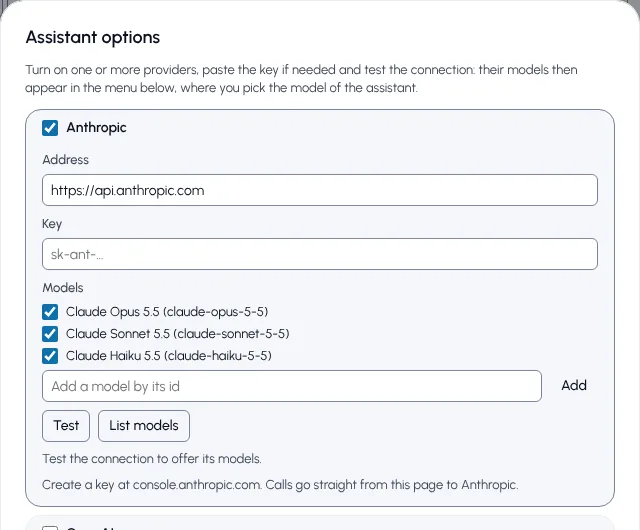
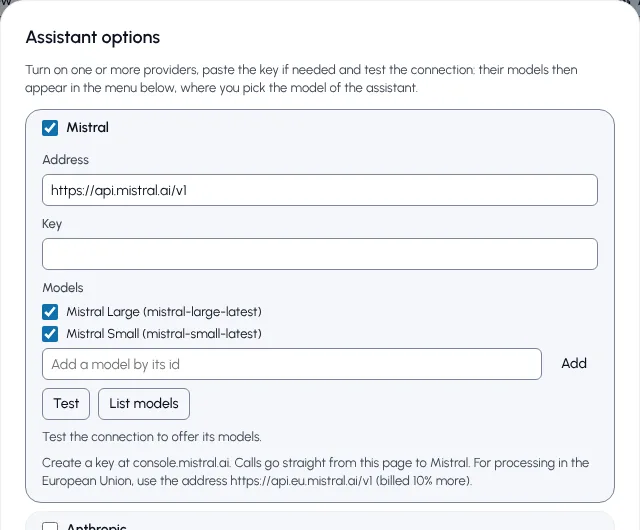
Show the Mistral block in the help screenshots

diff --git a/aide.html b/aide.html
@@ -285,7 +285,7 @@
           </table>
         </div>
         <p>Collez la clé, cliquez sur <span class="ui">Tester</span>, puis choisissez le modèle. Les modèles d'un fournisseur sont proposés une fois sa connexion testée. Le panneau affiche le modèle utilisé.</p>
-        <figure><img src="/src/help/img/fr-options.webp" width="640" height="530" alt="Fenêtre Options de l'assistant, avec le fournisseur Anthropic activé : adresse, clé, modèles, boutons Tester et Lister les modèles." loading="lazy" /><figcaption>Options de l'assistant : Anthropic activé, en attente de la clé.</figcaption></figure>
+        <figure><img src="/src/help/img/fr-options.webp" width="640" height="530" alt="Fenêtre Options de l'assistant, avec le fournisseur Mistral activé : adresse, clé, modèles, boutons Tester et Lister les modèles." loading="lazy" /><figcaption>Options de l'assistant : Mistral activé, en attente de la clé.</figcaption></figure>
 
         <h3>2. Décrire le processus</h3>
         <p>Écrivez comme vous l'expliqueriez à un collègue : qui fait quoi, dans quel ordre, avec quelles décisions. L'assistant répond dans la langue de votre message. Par exemple :</p>

diff --git a/help.html b/help.html
@@ -285,7 +285,7 @@
           </table>
         </div>
         <p>Paste the key, click <span class="ui">Test</span>, then choose the model. A provider's models are offered once its connection is tested. The panel shows which model is in use.</p>
-        <figure><img src="/src/help/img/en-options.webp" width="640" height="530" alt="Assistant options window with the Anthropic provider turned on: address, key, models, Test and List models buttons." loading="lazy" /><figcaption>Assistant options: Anthropic turned on, waiting for the key.</figcaption></figure>
+        <figure><img src="/src/help/img/en-options.webp" width="640" height="530" alt="Assistant options window with the Mistral provider turned on: address, key, models, Test and List models buttons." loading="lazy" /><figcaption>Assistant options: Mistral turned on, waiting for the key.</figcaption></figure>
 
         <h3>2. Describe the process</h3>
         <p>Write it the way you would explain it to a colleague: who does what, in which order, with which decisions. The assistant answers in the language of your message. For example:</p>
